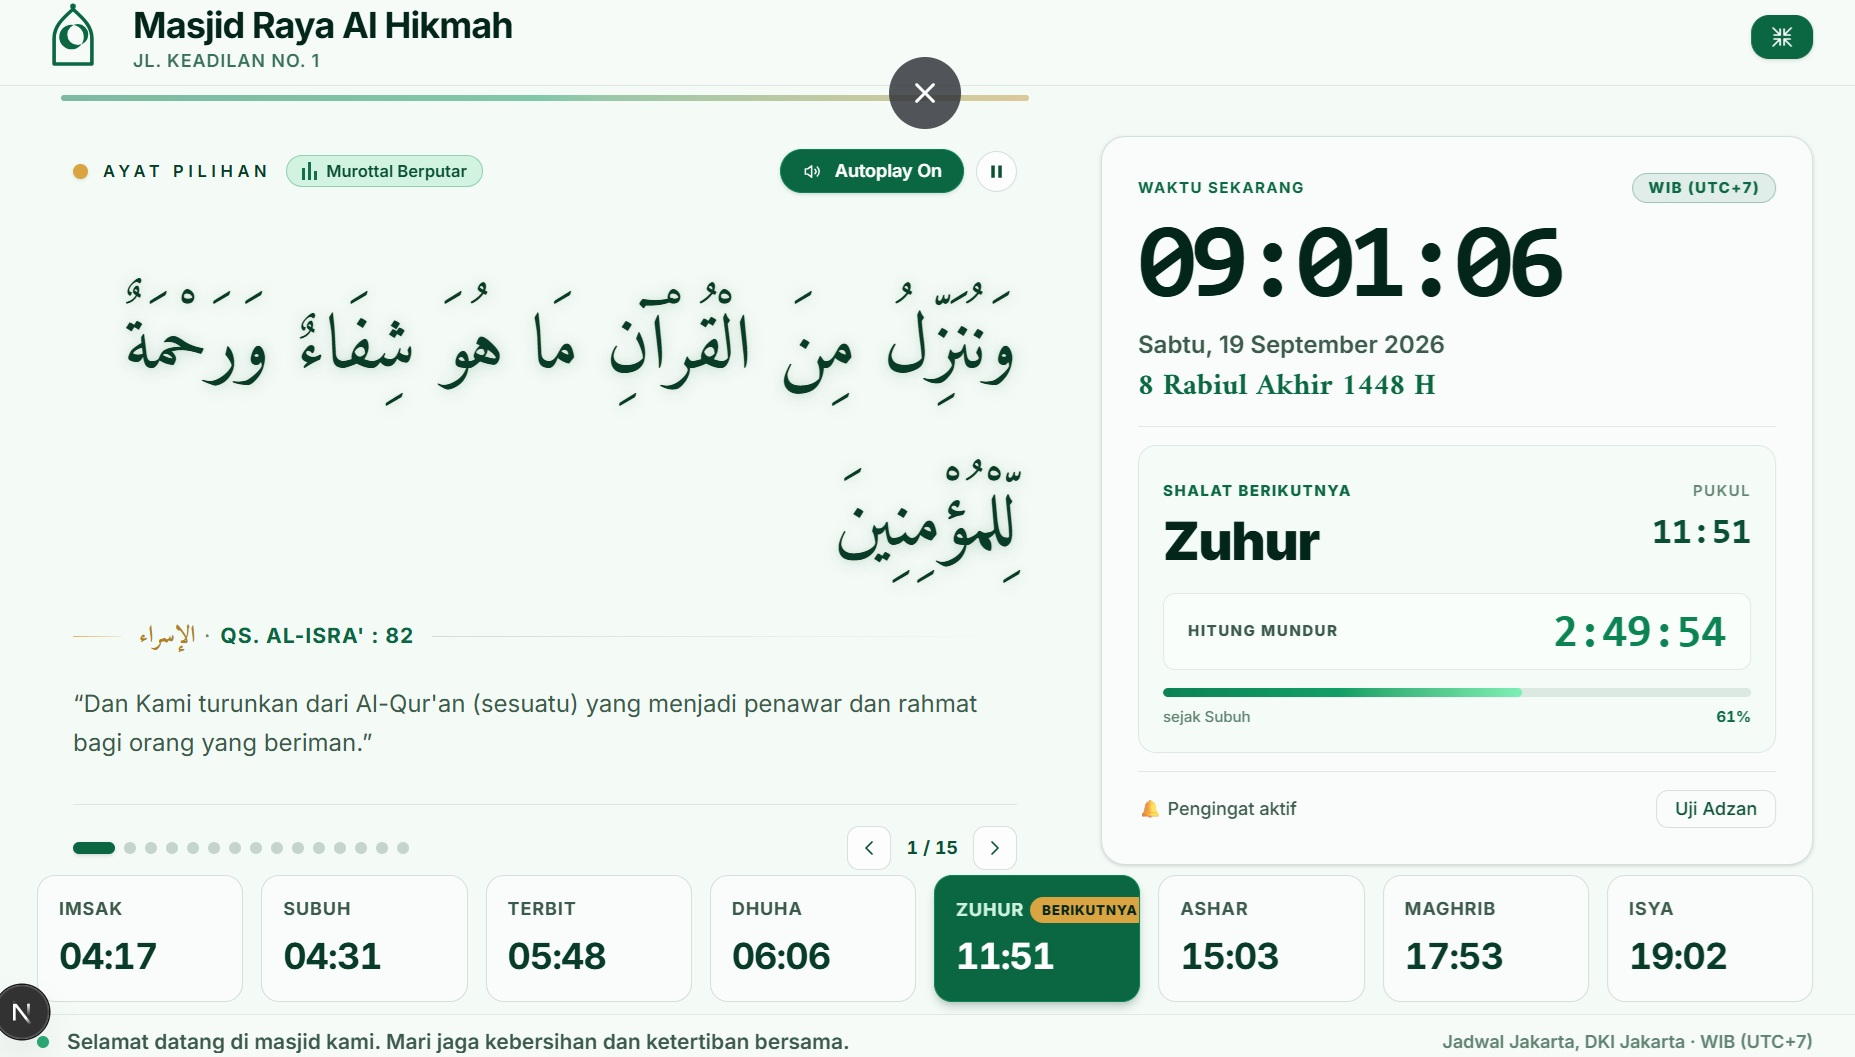
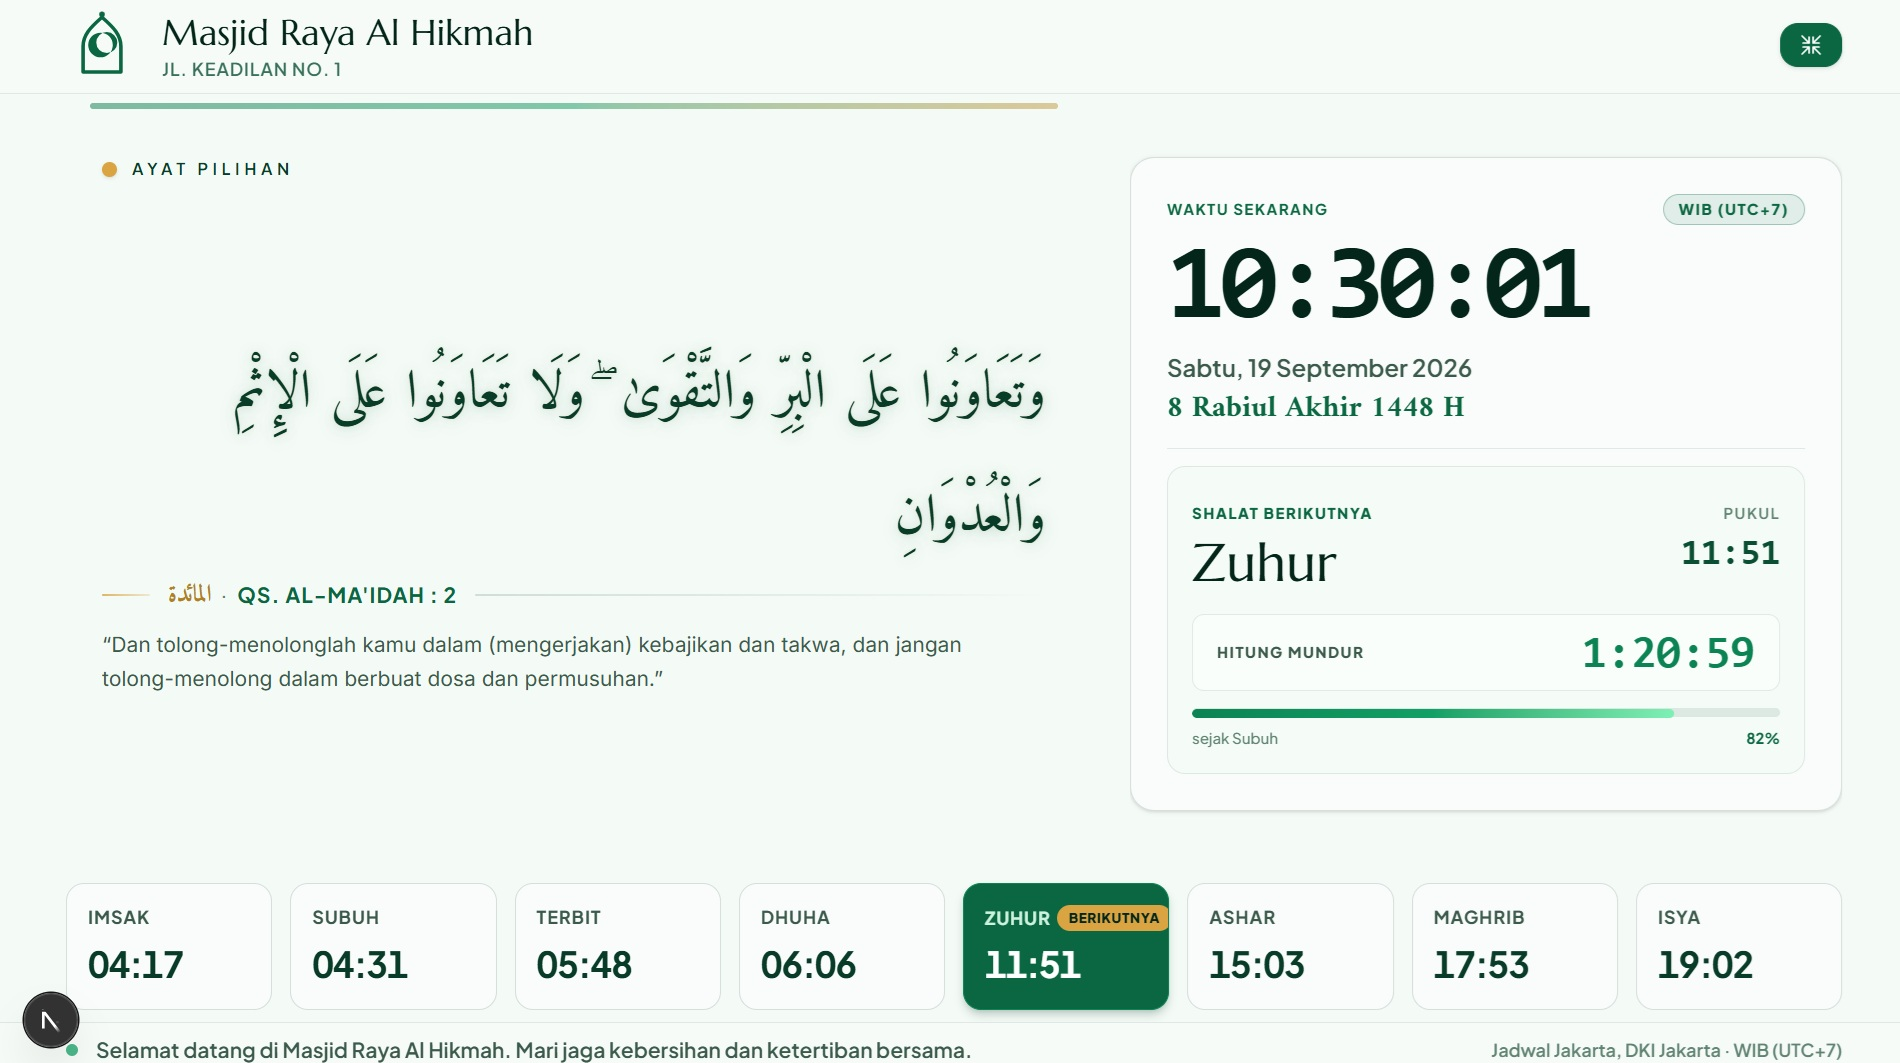
fix: form profil/ustadz/pengurus tolak metadata baris + dokumentasi & preview
- Form profil, ustadz, pengurus hanya kirim kolom yang dikenal sehingga
  lolos skema strict (atasi Unrecognized keys id/createdAt/updatedAt)
- CHANGELOG: catat reciter murottal, playlist rentang, font Latin,
  mode ringkas fullscreen, perbaikan bug, dan hardening keamanan
- README: fitur reciter, baris tipografi, struktur lib/murottal & azan
- Perbarui displayboard-preview.jpg

diff --git a/src/app/admin/profil/page.tsx b/src/app/admin/profil/page.tsx
@@ -31,6 +31,13 @@ const AWAL: Profil = {
   favicon: null,
 };
 
+/**
+ * Kolom yang boleh dikirim ke API. Respons GET berisi baris database utuh
+ * (id, createdAt, updatedAt) — kunci metadata itu wajib dibuang sebelum
+ * PUT karena skema validasi menolak kunci tak dikenal.
+ */
+const KUNCI_PROFIL = Object.keys(AWAL) as (keyof Profil)[];
+
 export default function AdminProfilPage() {
   const router = useRouter();
   const [profil, setProfil] = useState<Profil>(AWAL);
@@ -43,8 +50,18 @@ export default function AdminProfilPage() {
       try {
         const res = await fetch("/api/admin/profil", { cache: "no-store" });
         if (res.ok) {
-          const data = (await res.json()) as Profil;
-          setProfil({ ...AWAL, ...data });
+          const data = (await res.json()) as Record<string, unknown>;
+          // Ambil hanya kolom profil; buang metadata baris (id, createdAt, ...).
+          const bersih: Profil = { ...AWAL };
+          for (const kunci of KUNCI_PROFIL) {
+            const nilai = data[kunci];
+            if (kunci === "nama") {
+              if (typeof nilai === "string") bersih.nama = nilai;
+            } else if (typeof nilai === "string" || nilai === null) {
+              bersih[kunci] = nilai;
+            }
+          }
+          setProfil(bersih);
         } else {
           setPesan({ jenis: "galat", teks: "Gagal memuat profil masjid" });
         }
@@ -66,10 +83,13 @@ export default function AdminProfilPage() {
     setPesan(null);
 
     try {
+      // Kirim hanya kolom profil yang dikenal — tanpa metadata baris.
+      const muatan: Record<string, string | null> = {};
+      for (const kunci of KUNCI_PROFIL) muatan[kunci] = profil[kunci];
       const res = await fetch("/api/admin/profil", {
         method: "PUT",
         headers: { "Content-Type": "application/json" },
-        body: JSON.stringify(profil),
+        body: JSON.stringify(muatan),
       });
 
       if (!res.ok) {

diff --git a/src/components/admin/FormUstadz.tsx b/src/components/admin/FormUstadz.tsx
@@ -32,8 +32,15 @@ export default function FormUstadz({ id }: { id?: string }) {
       try {
         const res = await fetch(`/api/admin/ustadz/${id}`, { cache: "no-store" });
         if (res.ok) {
-          const hasil = (await res.json()) as DataUstadz;
-          setData({ ...AWAL, ...hasil });
+          const hasil = (await res.json()) as Record<string, unknown>;
+          // Petakan hanya kolom form; buang metadata baris (id, createdAt, ...)
+          // agar tidak ditolak skema strict saat disimpan.
+          setData({
+            nama: typeof hasil.nama === "string" ? hasil.nama : "",
+            spesialisasi: typeof hasil.spesialisasi === "string" ? hasil.spesialisasi : null,
+            bio: typeof hasil.bio === "string" ? hasil.bio : null,
+            foto: typeof hasil.foto === "string" ? hasil.foto : null,
+          });
         }
       } catch {
         // Biarkan formulir kosong bila pengambilan gagal; pesan muncul saat simpan.

diff --git a/src/components/admin/FormPengurus.tsx b/src/components/admin/FormPengurus.tsx
@@ -31,8 +31,15 @@ export default function FormPengurus({ id }: { id?: string }) {
       try {
         const res = await fetch(`/api/admin/pengurus/${id}`, { cache: "no-store" });
         if (res.ok) {
-          const hasil = (await res.json()) as DataPengurus;
-          setData({ ...AWAL, ...hasil });
+          const hasil = (await res.json()) as Record<string, unknown>;
+          // Petakan hanya kolom form; buang metadata baris (id, createdAt, ...)
+          // agar tidak ditolak skema strict saat disimpan.
+          setData({
+            nama: typeof hasil.nama === "string" ? hasil.nama : "",
+            jabatan: typeof hasil.jabatan === "string" ? hasil.jabatan : "",
+            urutan: typeof hasil.urutan === "number" ? hasil.urutan : 0,
+            foto: typeof hasil.foto === "string" ? hasil.foto : null,
+          });
         }
       } catch {
         // Formulir tetap dapat diisi manual.

diff --git a/README.md b/README.md
@@ -42,8 +42,9 @@ Papan informasi digital dirancang adaptif untuk layar TV masjid, kiosk layar sen
 ### 1. 🕌 Papan Informasi Digital (Display Board TV & Kiosk)
 - **Desain Khusus TV & Kiosk:** Tata letak digital signage murni dengan latar belakang kaligrafi islami, lengkung mihrab, dan pola girih bintang delapan.
 - **Mode TV Layar Penuh (Fullscreen):** Sekali klik untuk mengubah peramban menjadi display TV masjid tanpa menu atau footer situs.
-- **Kaligrafi Al-Qur'an Rasm Utsmani:** Menampilkan ayat-ayat pilihan dengan font kaligrafi Utsmani autentik (*Scheherazade New* & *Amiri Quran*) berlatar transparan yang menyatu anggun dengan arsitektur mihrab.
-- **Autoplay Murottal Ayat:** Murottal lantunan Syaikh Mishary Rashid Alafasy berputar otomatis setiap ayat berganti, dengan visualisasi gelombang audio aktif dan transisi lembut (*cross-fade*).
+- **Kaligrafi Al-Qur'an Rasm Utsmani:** Menampilkan ayat-ayat pilihan dengan font kaligrafi Utsmani autentik (*Amiri Quran* & *Scheherazade New*, self-host tanpa CDN) berlatar transparan yang menyatu anggun dengan arsitektur mihrab.
+- **Autoplay Murottal Ayat:** Murottal berputar otomatis setiap ayat berganti, dengan visualisasi gelombang audio aktif dan transisi lembut (*cross-fade*). Kutipan multi-ayat (mis. Al-Insyirah 5–6) dilantunkan ayat per ayat sampai tuntas.
+- **Pilihan Reciter Murottal:** 12 qari terkenal (Mishary Alafasy, Abdul Basit, Al-Husary, Minshawi, Maher Al-Muaiqly, As-Sudais, dsb.) dapat diganti lewat Admin → Pengaturan → Suara murottal, lengkap dengan pratinjau audio.
 - **Jam Tabular & Hitung Mundur Shalat:** Jam digital presisi tinggi, hitung mundur menuju waktu shalat berikutnya, dan progress bar kemajuan waktu antar-shalat.
 - **Rel Jadwal Shalat 8 Waktu:** Imsak, Subuh, Terbit, Dhuha, Dzuhur, Ashar, Maghrib, dan Isya dengan penanda waktu aktif berkontras tinggi yang responsif di segala ukuran layar.
 - **Fitur Khusus Ramadhan:** Deteksi otomatis bulan suci Ramadhan yang menampilkan jadwal Imsak dan hitung mundur waktu Berbuka puasa.
@@ -73,10 +74,11 @@ Papan informasi digital dirancang adaptif untuk layar TV masjid, kiosk layar sen
 | **Framework Utama** | [Next.js 15](https://nextjs.org/) | App Router, Server Components & Route Handlers |
 | **Bahasa Pemrograman** | [TypeScript 5](https://www.typescriptlang.org/) | Type-safe end-to-end |
 | **Styling & Desain** | [Tailwind CSS v4](https://tailwindcss.com/) | `@theme inline`, utilitas modern & CSS Variables |
+| **Tipografi** | `next/font` (self-host) | Plus Jakarta Sans (UI), Marcellus (judul), Amiri Quran/Scheherazade/Amiri/Reem Kufi (Arab) |
 | **Basis Data & ORM** | [Prisma](https://www.prisma.io/) + SQLite | Relasional, ringan, tanpa konfigurasi rumit |
 | **Autentikasi** | [NextAuth.js v4](https://next-auth.js.org/) | JWT session, bcrypt password hashing |
 | **Validasi Skema** | [Zod](https://zod.dev/) | Validasi runtime dan tipe data |
-| **Audio & Murattal** | Web Audio API + CDN EveryAyah | Murottal Syaikh Mishary Rashid Alafasy |
+| **Audio & Murattal** | Web Audio API + CDN EveryAyah | 12 reciter pilihan + arsip adzan IslamCan |
 
 ---
 
@@ -169,6 +171,8 @@ masjid-raya-pro/
 │   └── lib/
 │       ├── hisab.ts        # Algoritma hisab jadwal shalat Kemenag RI
 │       ├── ayat.ts         # Koleksi ayat Al-Qur'an & integrasi audio
+│       ├── murottal.ts     # Katalog 12 reciter EveryAyah terverifikasi
+│       ├── azan.ts         # Katalog suara adzan + resolusi URL
 │       ├── papan.ts        # Kalkulasi hitung mundur waktu shalat & iqomah
 │       ├── upload.ts       # Manajemen upload aman berbasis magic bytes
 │       └── validasi.ts     # Skema Zod untuk integritas data

diff --git a/CHANGELOG.md b/CHANGELOG.md
@@ -22,8 +22,24 @@ dan proyek ini menggunakan [Semantic Versioning](https://semver.org/lang/id/).
 - Autoplay murottal ayat dengan visualisasi gelombang audio dan transisi cross-fade.
 - Fitur khusus Ramadhan: deteksi otomatis, jadwal Imsak, dan hitung mundur berbuka.
 - Header keamanan HTTP (CSP, HSTS, X-Frame-Options, dll) di `next.config.mjs`.
+- Pilihan reciter murottal: 12 qari terkenal (Alafasy, Abdul Basit, Al-Husary, Minshawi, Maher Al-Muaiqly, As-Sudais, dll) dari arsip EveryAyah yang terverifikasi, dapat diganti lewat Admin → Pengaturan → Suara murottal lengkap dengan pratinjau audio.
+- Daftar putar murottal per rentang: kutipan multi-ayat (mis. Al-Insyirah 5–6) dilantunkan ayat per ayat berurutan, bukan hanya ayat pertamanya.
+- Font Latin estetik via `next/font` (self-host, lolos CSP, tetap tampil saat TV offline): Plus Jakarta Sans untuk UI dan Marcellus untuk judul hero; terjemahan ayat dikunci ke Inter dan jam digital tetap monospace tabular.
+- Mode ringkas fullscreen TV: badge status, tombol kontrol, navigasi ayat, dan blok Pengingat/Uji Adzan disembunyikan; ukuran teks menyesuaikan agar nama surah dan terjemahan tidak tertutup kartu jadwal.
 
 ### Diperbaiki
 - Bug audio runtime error pada autoplay murottal.
 - Bug penyimpanan profil masjid di panel admin.
 - Ketidakcocokan zona waktu antara jadwal shalat dan jam papan informasi.
+- Gagal simpan profil dengan galat `Unrecognized keys: "id", "createdAt", "updatedAt"` — form kini hanya mengirim kolom yang dikenal.
+- Gagal simpan edit ustadz dan pengurus dengan penyebab yang sama — pemetaan field dibuat eksplisit.
+- Refresh jadwal papan informasi kembali ke lokasi default — parameter `?lokasi=` kini dipertahankan.
+- Berkas MP4/M4A valid (merek `isom`, `dash`, `3gp`, …) yang sebelumnya ditolak deteksi magic bytes.
+- Timer pergantian ayat yang bocor saat navigasi cepat (race condition).
+
+### Keamanan
+- Token yatim (akun dihapus) kini ditolak middleware termasuk untuk `/akun/*`.
+- Seed menolak sandi bawaan bila `NODE_ENV=production` tanpa `SEED_*_PASSWORD`; biaya hash bcrypt 10 → 12.
+- Validasi `UPLOAD_DIR` menolak direktori root; berkas bertipe MIME tak dikenal di `/api/media` dijawab 404.
+- Validasi tautan berkas dibatasi ke folder unggahan resmi; skema profil memakai `strictObject`.
+- Deteksi MP3 diperketat (verifikasi bit versi/lapisan MPEG) agar biner acak tidak lolos sebagai audio.
